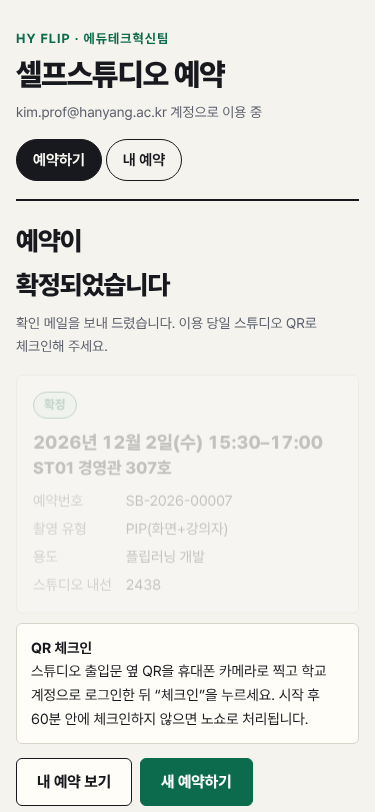
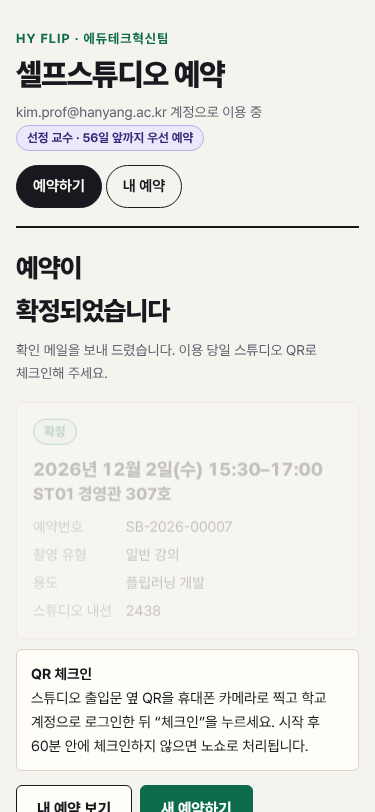
검토의견 결정 반영: 선정 교수 우선 예약·4주 제한·촬영 유형·이용수칙
- 예약 가능 기간: 일반 이용자 28일(4주), 선정교수 탭 이용자 56일(8주) 앞까지(예약 우선권)
- 촬영 유형 3종: 일반 강의 / 태블릿 판서 강의 / 기타
- 예약 화면 이용수칙 9개 항목으로 교체, 게시용 A4 이용 안내 샘플 추가
- 노쇼 제재 시 기존 예약 유지(현행) 문서에 확정 표기
- 우선권·촬영 유형 테스트 추가(총 38개), 화면 점검 재실행

Claude-Session: https://claude.ai/code/session_01V8sEvj3UEsq27Rsi7rzTA4

diff --git a/studio-booking/src/ui/AppJs.html b/studio-booking/src/ui/AppJs.html
@@ -19,6 +19,10 @@
       var s = $('#sanction'); s.hidden = false;
       s.textContent = '노쇼 누적으로 ' + d.sanctionUntil + '까지 새 예약이 제한됩니다. 사정이 있었다면 담당자(' + d.contact + ')에게 문의해 주세요.';
     }
+    if (d.isSelected && cfg().selectedAdvanceDays) {
+      var w = $('#who');
+      w.innerHTML = esc(d.email) + ' 계정으로 이용 중 <span class="pill sel">선정 교수 · ' + cfg().maxAdvanceDays + '일 앞까지 우선 예약</span>';
+    }
     renderStudios();
     var di = $('#date');
     di.min = today();
@@ -51,17 +55,22 @@
 
   function renderRules() {
     var c = cfg();
+    var adv = c.generalAdvanceDays ? '오늘부터 ' + c.generalAdvanceDays + '일(' + Math.round(c.generalAdvanceDays / 7) + '주) 앞까지 예약할 수 있습니다.' : '예약 가능 기간에 제한이 없습니다.';
+    if (c.selectedAdvanceDays && c.selectedAdvanceDays > (c.generalAdvanceDays || 0)) {
+      adv += ' 플립러닝 개발 선정 교수는 ' + c.selectedAdvanceDays + '일(' + Math.round(c.selectedAdvanceDays / 7) + '주) 앞까지 먼저 예약할 수 있습니다.';
+    }
     var items = [
-      '예약 시작 ' + c.checkinEarlyMin + '분 전부터 스튜디오에 붙은 QR 코드로 체크인합니다. 시작 후 ' + c.noShowGraceMin +
+      '[예약] ' + adv + ' 1인 1일 최대 ' + dur(c.dailyMaxMin) + ', 30분 단위로 예약합니다.',
+      '[체크인] 시작 ' + c.checkinEarlyMin + '분 전부터 스튜디오 출입문의 QR 코드로 체크인합니다. 시작 후 ' + c.noShowGraceMin +
         '분(짧은 예약은 종료 시각) 안에 체크인하지 않으면 노쇼로 처리됩니다.',
-      '취소·변경은 이용 전날 ' + fmtMin(c.deadlineMin) + '까지 직접 할 수 있습니다. 그 이후 취소나 미이용은 노쇼입니다.',
-      '학기 중 노쇼 ' + c.sanctionThreshold + '회부터 ' + c.sanctionDays + '일 동안 예약이 제한됩니다.',
-      '1인 1일 최대 ' + dur(c.dailyMaxMin) + '까지 예약할 수 있습니다.',
-      '장비 설정을 임의로 바꾸지 말고, 사용 후 전원을 끄고 처음 상태로 정리해 주세요.',
-      '음식물은 반입하지 않습니다.',
-      '장비 이상이나 파손을 발견하면 바로 담당자(' + S.d.contact + ')에게 알려 주세요.',
-      '야간 이용: 담당자 근무시간(평일 ' + fmtMin(c.supportStartMin) + '~' + fmtMin(c.supportEndMin) +
-        ') 외에 이용하는 동안 발생한 장비 도난·파손은 이용자 책임입니다.',
+      '[취소·변경] 이용 전날 ' + fmtMin(c.deadlineMin) + '까지 ‘내 예약’에서 직접 할 수 있습니다. 그 이후의 취소나 미이용은 노쇼입니다.',
+      '[노쇼 제재] 학기 중 노쇼 ' + c.sanctionThreshold + '회부터 ' + c.sanctionDays + '일 동안 새 예약이 제한됩니다. 이미 잡아 둔 예약은 유지됩니다.',
+      '[본인 이용] 예약한 본인(또는 함께 촬영하는 사람)만 이용하며, 예약을 다른 사람에게 넘기지 않습니다.',
+      '[장비] 카메라·조명·녹화기 설정을 임의로 바꾸거나 장비를 밖으로 가져가지 않습니다. 이상이나 파손을 발견하면 바로 담당자(' + S.d.contact + ')에게 알립니다.',
+      '[정리] 사용 후 장비 전원을 끄고 처음 상태로 정리합니다. 녹화 파일은 개인 저장장치로 옮기고 장비에 남은 파일은 지웁니다. 음식물은 반입하지 않습니다.',
+      '[야간·주말 이용] 담당자 근무시간(평일 ' + fmtMin(c.supportStartMin) + '~' + fmtMin(c.supportEndMin) +
+        ') 외에 이용하는 동안 발생한 장비 도난·파손은 이용자 책임입니다. 나갈 때 문이 잠겼는지 확인합니다.',
+      '[안전] 화재·누전 등 위험 상황에서는 촬영을 멈추고 즉시 대피한 뒤 담당자에게 알립니다.',
     ];
     $('#rulesList').innerHTML = items.map(function (t) { return '<li>' + esc(t) + '</li>'; }).join('');
   }

diff --git a/studio-booking/src/Rules.js b/studio-booking/src/Rules.js
@@ -31,7 +31,8 @@ var Rules = (function () {
     checkinEarlyMin: 10,        // 시작 10분 전부터 체크인
     sanctionThreshold: 2,       // 학기 노쇼 2회
     sanctionDays: 30,           // 1개월(30일) 예약 제한
-    maxAdvanceDays: null,       // 예약 가능 기간(일). null = 제한 없음
+    maxAdvanceDays: 28,         // 일반 이용자 예약 가능 기간(일). null = 제한 없음
+    selectedAdvanceDays: 56,    // 선정 교수 예약 가능 기간(일) — 예약 우선권
     personalYears: 2,           // 개인정보 보관
     historyYears: 10,           // 업무 이력 보관
   };
@@ -75,10 +76,17 @@ var Rules = (function () {
     return w !== 0 && w !== 6 && !isHoliday(date, holidays);
   }
 
+  /** 이용자에게 적용할 예약 가능 일수 (선정 교수는 더 먼 날짜까지 = 우선권). null = 제한 없음 */
+  function advanceDays(c, selected) {
+    c = c || DEFAULTS;
+    if (selected && c.selectedAdvanceDays) return Math.max(c.selectedAdvanceDays, c.maxAdvanceDays || 0);
+    return c.maxAdvanceDays || null;
+  }
+
   /**
    * 예약 요청 검증
    * @param req {studioId,date,startMin,endMin,support,agreedPrivacy,agreedRules}
-   * @param ctx {now:{date,min}, config, holidays[], busy[], sameDayBookings[], sanctionUntil}
+   * @param ctx {now:{date,min}, config, holidays[], busy[], sameDayBookings[], sanctionUntil, selected}
    *   busy: 해당 스튜디오·날짜의 점유 구간(캘린더 기준), sameDayBookings: 본인의 같은 날 점유 예약
    * @return {ok:boolean, errors:string[]}
    */
@@ -98,8 +106,10 @@ var Rules = (function () {
       e.push('운영시간(' + fmtMin(c.openMin) + '~' + fmtMin(c.closeMin) + ') 안에서만 예약할 수 있습니다.');
     }
     if (!before(ctx.now, req.date, s)) e.push('이미 지난 시간은 예약할 수 없습니다.');
-    if (c.maxAdvanceDays && req.date > addDays(ctx.now.date, c.maxAdvanceDays)) {
-      e.push('오늘부터 ' + c.maxAdvanceDays + '일 이내만 예약할 수 있습니다.');
+    var adv = advanceDays(c, ctx.selected);
+    if (adv && req.date > addDays(ctx.now.date, adv)) {
+      e.push('오늘부터 ' + adv + '일(' + Math.round(adv / 7) + '주) 이내만 예약할 수 있습니다.' +
+        (!ctx.selected && c.selectedAdvanceDays > adv ? ' (선정 교수는 ' + c.selectedAdvanceDays + '일까지)' : ''));
     }
     if (ctx.sanctionUntil && ctx.now.date <= ctx.sanctionUntil) {
       e.push('노쇼 누적으로 ' + ctx.sanctionUntil + '까지 예약이 제한됩니다. 담당자에게 문의해 주세요.');
@@ -253,7 +263,7 @@ var Rules = (function () {
     STATUS: STATUS, OCCUPYING: OCCUPYING, DEFAULTS: DEFAULTS,
     toMin: toMin, fmtMin: fmtMin, addDays: addDays, addYears: addYears, weekday: weekday,
     daysInMonth: daysInMonth, overlaps: overlaps, isHoliday: isHoliday, isWorkday: isWorkday,
-    validateRequest: validateRequest, canUserModify: canUserModify,
+    advanceDays: advanceDays, validateRequest: validateRequest, canUserModify: canUserModify,
     noShowDeadlineMin: noShowDeadlineMin, isNoShowDue: isNoShowDue, canCheckin: canCheckin,
     semesterOf: semesterOf, sanctionAfterNoShow: sanctionAfterNoShow,
     retentionDates: retentionDates, monthlyStats: monthlyStats,

diff --git a/studio-booking/test/flow.test.js b/studio-booking/test/flow.test.js
@@ -12,7 +12,7 @@ const kst = (s) => s + ':00+09:00';
 function form(o) {
   return Object.assign({
     studioId: 'ST01', date: '2026-12-02', startMin: 600, endMin: 660, support: false,
-    name: '김교수', org: '경영대학', shootType: 'PIP(화면+강의자)', purpose: '플립러닝 개발',
+    name: '김교수', org: '경영대학', shootType: '일반 강의', purpose: '플립러닝 개발',
     agreedPrivacy: true, agreedRules: true,
   }, o);
 }
@@ -129,6 +129,31 @@ test('촬영 지원 요청 → 임시 점유·담당자 알림 → 담당자가 
   assert.equal(evs.length, 1);
   assert.match(evs[0].title, /^\[확정\]/);
   assert.match(mailsTo(env, B).pop().subject, /촬영 지원 예약이 확정/);
+});
+
+test('선정 교수 예약 우선권: 일반 4주, 선정 교수 8주', () => {
+  const env = fresh();
+  env.ss().getSheetByName('선정교수').appendRow([A.toUpperCase(), '2027-1학기', '경영통계', '']); // 대소문자 무시
+  env.as(A);
+  const boot = env.call('apiBootstrap');
+  assert.equal(boot.isSelected, true);
+  assert.equal(boot.config.maxAdvanceDays, 56);
+  assert.equal(env.call('apiCreateBooking', form({ date: '2027-01-20' })).status, '확정'); // 51일 뒤
+  assert.throws(() => env.call('apiCreateBooking', form({ date: '2027-01-26' })), /56일/);
+  env.as(B);
+  assert.equal(env.call('apiBootstrap').config.maxAdvanceDays, 28);
+  assert.throws(() => env.call('apiCreateBooking', form({ date: '2027-01-20', startMin: 720, endMin: 780 })), /28일/);
+  assert.equal(env.call('apiCreateBooking', form({ date: '2026-12-28' })).status, '확정');
+  env.as(OWNER);
+  assert.equal(env.call('apiAdminData').upcoming.find((b) => b.email === A), undefined); // 14일 밖
+});
+
+test('촬영 유형은 설정된 3종만 허용', () => {
+  const env = fresh();
+  env.as(A);
+  assert.deepEqual(Array.from(env.call('apiBootstrap').shootTypes), ['일반 강의', '태블릿 판서 강의', '기타']);
+  assert.throws(() => env.call('apiCreateBooking', form({ shootType: 'PIP(화면+강의자)' })), /촬영 유형/);
+  assert.equal(env.call('apiCreateBooking', form({ shootType: '태블릿 판서 강의' })).status, '확정');
 });
 
 test('지원 요청 반려 → 일정 삭제·사유 메일, 사유 없으면 거부', () => {

diff --git a/studio-booking/src/Db.js b/studio-booking/src/Db.js
@@ -151,7 +151,8 @@ var CONFIG_KEYS = [
   ['체크인 허용(시작 전 분)', 'checkinEarlyMin', 'number', '10', '시작 몇 분 전부터 체크인 가능'],
   ['노쇼 제재 기준(학기 누적 회)', 'sanctionThreshold', 'number', '2', '이 횟수에 도달하면 예약 제한'],
   ['제재 기간(일)', 'sanctionDays', 'number', '30', '예약 제한 일수'],
-  ['최대 예약 가능 일수', 'maxAdvanceDays', 'number', '', '비워 두면 제한 없음. 예) 28 = 4주 앞까지'],
+  ['최대 예약 가능 일수', 'maxAdvanceDays', 'number', '28', '일반 이용자: 오늘부터 며칠 앞까지 예약 가능(28 = 4주). 비우면 제한 없음'],
+  ['선정 교수 예약 가능 일수', 'selectedAdvanceDays', 'number', '56', "예약 우선권: '선정교수' 탭에 있는 교수는 이 일수까지(56 = 8주)"],
 ];
 var CONFIG_TEXT = [
   ['학교 도메인', 'domain', 'hanyang.ac.kr', '이 도메인 계정만 이용 가능. 비워 두면 배포 설정(도메인 제한)만 사용'],
@@ -160,7 +161,7 @@ var CONFIG_TEXT = [
   ['담당자 알림 메일', 'staffEmail', '', '촬영 지원 요청이 오면 알림 받을 주소(쉼표로 여러 개)'],
   ['웹앱 주소', 'webUrl', '', '배포 후 /exec 로 끝나는 주소를 붙여 넣으세요(메일·QR 링크에 사용)'],
   ['전날 리마인더 메일(Y/N)', 'reminder', 'Y', '이용 전날 15시에 안내 메일 발송'],
-  ['촬영 유형', 'shootTypes', 'PIP(화면+강의자), 강의자 단독, 화면 녹화, 기타', '쉼표로 구분 — 현행 선택지로 바꿔 주세요'],
+  ['촬영 유형', 'shootTypes', '일반 강의, 태블릿 판서 강의, 기타', '쉼표로 구분'],
   ['용도', 'purposes', '플립러닝 개발, 일반 강의, 직무·기타', '쉼표로 구분'],
 ];
 
@@ -172,7 +173,7 @@ function loadConfig() {
   CONFIG_KEYS.forEach(function (d) {
     var v = map[d[0]];
     if (v === undefined) return;
-    if (v === '') { if (d[1] === 'maxAdvanceDays') c[d[1]] = null; return; }
+    if (v === '') { if (d[1] === 'maxAdvanceDays' || d[1] === 'selectedAdvanceDays') c[d[1]] = null; return; }
     if (d[2] === 'time') c[d[1]] = Rules.toMin(v);
     else if (d[2] === 'hours') c[d[1]] = Math.round(Number(v) * 60);
     else c[d[1]] = Number(v);

diff --git a/studio-booking/src/Booking.js b/studio-booking/src/Booking.js
@@ -23,6 +23,18 @@ function requireAdmin() {
   return email;
 }
 
+/** '선정교수' 탭 이메일 목록(소문자) → {email:true}. 예약 우선권과 담당자 화면 표시에 사용 */
+function selectedProfessors() {
+  var map = {};
+  Db.rows(SHEETS.SELECTED).forEach(function (r) {
+    var e = String(r['이메일'] || '').toLowerCase().trim();
+    if (e) map[e] = true;
+  });
+  return map;
+}
+
+function isSelectedProfessor(email) { return !!selectedProfessors()[email]; }
+
 /* ---------- 스튜디오 ---------- */
 
 function loadStudios(includeInactive) {
@@ -152,16 +164,19 @@ function apiBootstrap() {
   var now = nowKst();
   var mine = allBookings().filter(function (b) { return b.email === email; });
   var last = mine[mine.length - 1];
-  var horizon = Rules.addDays(now.date, cfg.maxAdvanceDays || 180);
+  var selected = isSelectedProfessor(email);
+  var adv = Rules.advanceDays(cfg, selected);
+  var horizon = Rules.addDays(now.date, adv || 180);
   return {
     email: email,
     name: last ? last.name : '',
     org: last ? last.org : '',
     isAdmin: isAdmin(email),
+    isSelected: selected,
     studios: loadStudios(false).map(publicStudio),
     config: {
       openMin: cfg.openMin, closeMin: cfg.closeMin, slotMin: cfg.slotMin, dailyMaxMin: cfg.dailyMaxMin,
-      supportStartMin: cfg.supportStartMin, supportEndMin: cfg.supportEndMin, maxAdvanceDays: cfg.maxAdvanceDays,
+      supportStartMin: cfg.supportStartMin, supportEndMin: cfg.supportEndMin, maxAdvanceDays: adv, generalAdvanceDays: cfg.maxAdvanceDays, selectedAdvanceDays: cfg.selectedAdvanceDays,
       deadlineMin: cfg.deadlineMin, noShowGraceMin: cfg.noShowGraceMin, checkinEarlyMin: cfg.checkinEarlyMin,
       sanctionThreshold: cfg.sanctionThreshold, sanctionDays: cfg.sanctionDays,
     },
@@ -230,6 +245,7 @@ function apiCreateBooking(form) {
         return b.email === email && b.date === req.date && isOccupying(b) && (!old || b.id !== old.id);
       }),
       sanctionUntil: activeSanctionUntil(email, now.date),
+      selected: isSelectedProfessor(email),
     });
     if (!check.ok) throw new Error(check.errors.join('\n'));
 

diff --git a/studio-booking/test/rules.test.js b/studio-booking/test/rules.test.js
@@ -85,7 +85,20 @@ test('최대 예약 가능 일수(설정 시에만)', () => {
   const cfg = Object.assign({}, C, { maxAdvanceDays: 7 });
   assert.equal(errs(req({ date: '2026-12-07' }), ctx({ config: cfg })).length, 0);
   assert.ok(errs(req({ date: '2026-12-08' }), ctx({ config: cfg })).length);
-  assert.equal(errs(req({ date: '2027-06-30' }), ctx()).length, 0); // 기본값: 제한 없음
+  const none = Object.assign({}, C, { maxAdvanceDays: null, selectedAdvanceDays: null });
+  assert.equal(errs(req({ date: '2027-06-30' }), ctx({ config: none })).length, 0); // 비우면 제한 없음
+});
+
+test('예약 가능 기간: 일반 28일(4주), 선정 교수 56일(8주) 우선권', () => {
+  // 오늘 2026-11-30 → 일반 2026-12-28까지, 선정 2027-01-25까지
+  assert.equal(errs(req({ date: '2026-12-28' }), ctx()).length, 0);
+  const e = errs(req({ date: '2026-12-29' }), ctx());
+  assert.ok(e.length && /28일/.test(e[0]) && /선정 교수는 56일/.test(e[0]), e.join());
+  assert.equal(errs(req({ date: '2026-12-29' }), ctx({ selected: true })).length, 0);
+  assert.equal(errs(req({ date: '2027-01-25' }), ctx({ selected: true })).length, 0);
+  assert.ok(errs(req({ date: '2027-01-26' }), ctx({ selected: true })).length);
+  assert.equal(R.advanceDays(C, false), 28);
+  assert.equal(R.advanceDays(C, true), 56);
 });
 
 test('본인 취소·수정은 이용 전날 18:00까지', () => {

diff --git a/studio-booking/preview/server.js b/studio-booking/preview/server.js
@@ -15,7 +15,7 @@ function seed(env) {
   env.call('setup');
   env.setConfig('담당자 알림 메일', 'staff@hanyang.ac.kr');
   const f = (o) => Object.assign({ studioId: 'ST01', date: '2026-12-02', startMin: 600, endMin: 660, support: false,
-    name: '박교수', org: '자연과학대학', shootType: 'PIP(화면+강의자)', purpose: '플립러닝 개발', agreedPrivacy: true, agreedRules: true }, o);
+    name: '박교수', org: '자연과학대학', shootType: '일반 강의', purpose: '플립러닝 개발', agreedPrivacy: true, agreedRules: true }, o);
   env.as('prof.park@hanyang.ac.kr');
   env.call('apiCreateBooking', f({ startMin: 600, endMin: 720 }));
   env.call('apiCreateBooking', f({ studioId: 'ST09', date: '2026-12-01', startMin: 840, endMin: 960, support: true }));

diff --git a/studio-booking/src/Admin.js b/studio-booking/src/Admin.js
@@ -18,8 +18,7 @@ function apiAdminData() {
   var studios = {};
   var studioList = loadStudios(true);
   studioList.forEach(function (s) { studios[s.code] = s; });
-  var selected = {};
-  Db.rows(SHEETS.SELECTED).forEach(function (r) { if (r['이메일']) selected[String(r['이메일']).toLowerCase().trim()] = true; });
+  var selected = selectedProfessors();
 
   var all = allBookings();
   var sem = Rules.semesterOf(now.date, loadSemesters());

diff --git a/studio-booking/docs/이용수칙_샘플.md b/studio-booking/docs/이용수칙_샘플.md
@@ -1,0 +1,70 @@
+# 셀프스튜디오 이용수칙 (샘플 · 담당 부서 확정 전 초안)
+
+두 가지 버전을 준비했습니다.
+- **A. 예약 화면 동의용**: 예약할 때 "[필수] 이용 수칙과 야간 이용 책임에 동의합니다" 아래에 펼쳐 보이는 문구입니다. 이미 웹앱에 들어가 있습니다.
+- **B. 스튜디오 출입문 게시용**: A4 한 장으로 인쇄해 QR 옆에 붙이는 전문입니다.
+
+{중괄호} 값은 관리 시트 '설정' 탭 값입니다. 웹앱 화면에는 설정값이 자동으로 들어갑니다.
+
+---
+
+## A. 예약 화면 동의용 (9개 항목)
+
+1. **[예약]** 오늘부터 28일(4주) 앞까지 예약할 수 있습니다. 플립러닝 개발 선정 교수는 56일(8주) 앞까지 먼저 예약할 수 있습니다. 1인 1일 최대 8시간, 30분 단위로 예약합니다.
+2. **[체크인]** 시작 10분 전부터 스튜디오 출입문의 QR 코드로 체크인합니다. 시작 후 60분(짧은 예약은 종료 시각) 안에 체크인하지 않으면 노쇼로 처리됩니다.
+3. **[취소·변경]** 이용 전날 18:00까지 '내 예약'에서 직접 할 수 있습니다. 그 이후의 취소나 미이용은 노쇼입니다.
+4. **[노쇼 제재]** 학기 중 노쇼 2회부터 30일 동안 새 예약이 제한됩니다. 이미 잡아 둔 예약은 유지됩니다.
+5. **[본인 이용]** 예약한 본인(또는 함께 촬영하는 사람)만 이용하며, 예약을 다른 사람에게 넘기지 않습니다.
+6. **[장비]** 카메라·조명·녹화기 설정을 임의로 바꾸거나 장비를 밖으로 가져가지 않습니다. 이상이나 파손을 발견하면 바로 담당자에게 알립니다.
+7. **[정리]** 사용 후 장비 전원을 끄고 처음 상태로 정리합니다. 녹화 파일은 개인 저장장치로 옮기고 장비에 남은 파일은 지웁니다. 음식물은 반입하지 않습니다.
+8. **[야간·주말 이용]** 담당자 근무시간(평일 08:30~17:30) 외에 이용하는 동안 발생한 장비 도난·파손은 이용자 책임입니다. 나갈 때 문이 잠겼는지 확인합니다.
+9. **[안전]** 화재·누전 등 위험 상황에서는 촬영을 멈추고 즉시 대피한 뒤 담당자에게 알립니다.
+
+---
+
+## B. 스튜디오 출입문 게시용 (A4 1장)
+
+> # HY FLIP 셀프스튜디오 이용 안내
+> **{스튜디오 코드} · {위치}** — 예약한 분만 이용할 수 있습니다.
+>
+> ### 1. 예약과 체크인
+> - 예약은 웹에서만 받습니다(전화 예약 없음). 오늘부터 **4주 앞**까지, 플립러닝 개발 선정 교수는 **8주 앞**까지 예약할 수 있습니다.
+> - 들어오면 이 옆의 **QR 코드를 휴대폰으로 찍고**, 학교 계정으로 로그인한 뒤 **"체크인"**을 누릅니다.
+> - 시작 10분 전부터 체크인할 수 있습니다. **시작 후 60분 안에 체크인하지 않으면 노쇼**로 처리됩니다.
+>
+> ### 2. 취소와 노쇼
+> - 취소·변경은 **이용 전날 18:00까지** 웹 '내 예약'에서 직접 합니다.
+> - 그 이후의 취소나 미이용은 노쇼입니다. **학기 중 노쇼 2회면 30일 동안 새 예약이 제한**됩니다.
+> - 부득이한 사정이 있으면 미리 담당자에게 연락해 주세요. 확인 후 노쇼를 해제해 드립니다.
+>
+> ### 3. 장비 사용
+> - 카메라·조명·녹화기·마이크 설정을 임의로 바꾸지 않습니다. 촬영 위치 표시(바닥 테이프)를 지켜 주세요.
+> - 장비와 비품은 밖으로 가져가지 않습니다.
+> - 이상·고장·파손을 발견하면 **사용 전이라도 바로** 담당자에게 알려 주세요. 알리지 않으면 다음 이용자가 피해를 봅니다.
+>
+> ### 4. 나갈 때 정리
+> - [ ] 녹화 파일을 개인 저장장치로 옮기고, 장비에 남은 파일 삭제
+> - [ ] 카메라·조명·녹화기·모니터 전원 끄기
+> - [ ] 의자·책상·소품 처음 위치로
+> - [ ] 쓰레기 가져가기 (음식물 반입 금지)
+> - [ ] 냉난방기·공기청정기·조명 끄고 **문 잠금 확인**
+>
+> ### 5. 야간·주말 이용 책임
+> 담당자 근무시간(**평일 08:30~17:30**) 외에 이용하는 동안 발생한 **장비 도난·파손은 이용자 책임**입니다. 예약할 때 이 내용에 동의하셨습니다.
+>
+> ### 6. 안전
+> 화재·누전·누수 등 위험 상황에서는 촬영을 멈추고 즉시 대피한 뒤 담당자에게 알립니다.
+>
+> ### 7. 개인정보
+> 예약·체크인 기록(성명·소속·이메일)은 예약 관리와 이용 통계에만 쓰고, 학기 종료 후 2년이 지나면 파기합니다.
+>
+> ---
+> **문의** 교육혁신처 에듀테크혁신팀 HY FLIP 담당 · 02-2220-1406 · 이 스튜디오 내선 {내선}
+> 촬영 지원(카메라 세팅·촬영 보조)은 예약할 때 "촬영 지원 필요"를 체크하세요. 평일 근무시간에만 가능합니다.
+
+---
+
+### 확정 전에 확인할 점
+- 스튜디오별 장비가 달라(ST04·ST07·ST09는 AREC 녹화기) **파일 정리 방법**을 장비별로 한 줄 덧붙이면 좋습니다.
+- 바닥 촬영 위치 표시(테이프)가 없는 스튜디오는 3항 둘째 줄을 빼세요.
+- 공과대학 ST10(정상진 S/W 스페이스)처럼 다른 용도와 함께 쓰는 공간은 출입·잠금 방식을 확인해 5항을 조정하세요.

diff --git a/studio-booking/docs/기능정의서_검토의견.md b/studio-booking/docs/기능정의서_검토의견.md
@@ -5,19 +5,21 @@
 
 ## A. 결정이 필요한 사항 (구현은 기본값으로 진행)
 
+2026-11-25 조피디님 결정으로 1·2·5·10번을 확정해 코드에 반영했습니다. 11번은 샘플을 작성했습니다.
+
 | # | 내용 | 정의서 근거 | 구현한 기본값 | 제안 |
 | --- | --- | --- | --- | --- |
-| 1 | **선정 교수 우선권이 서로 모순됨** | 4장 “선정 시 스튜디오 예약 우선권이 열림” ↔ 5-1 “별도 우선예약 기간 없음” | 우선권 없음. 선정 교수는 담당자 화면에 ‘선정 교수’로 표시만 | 4장 문구를 “예약 페이지 안내”로 고치거나, 우선권을 원하면 ‘선정 교수만 N일 먼저 예약’ 방식 결정 |
-| 2 | **예약 가능 기간 무제한** | 5-1 | 제한 없음 (설정 ‘최대 예약 가능 일수’ 빈칸) | 공문 일정상 12/15~2/19에 촬영이 몰림(1차 점검 50%: 1/15). 한 사람이 겨울방학을 미리 선점하지 않도록 **4주(28일)** 제한 검토 |
+| 1 | ~~선정 교수 우선권 모순~~ **결정됨(11/25)** | 4장 ↔ 5-1 | **선정 교수는 56일(8주) 앞까지, 일반은 28일(4주) 앞까지 예약** — 남의 예약을 밀어내지 않는 “먼저 예약” 방식 | 정의서 5-1 ‘예약 가능 기간’을 “일반 4주 / 선정 교수 8주(우선권)”로 수정 |
+| 2 | ~~예약 가능 기간 무제한~~ **결정됨(11/25)** | 5-1 | **4주(28일) 제한** (설정 ‘최대 예약 가능 일수’) | 정의서 5-1 문구 수정 |
 | 3 | 30분 예약의 노쇼 기준 | 5-1 “시작 1시간 안 체크인” | 시작+60분과 종료 시각 중 **빠른 쪽** | 그대로 확정 권장 |
 | 4 | “마감 후 취소 = 노쇼”의 처리 주체 | 5-1, 5-3 | 마감 후 본인 취소 버튼 숨김 → 담당자가 **취소(노쇼)/취소(예외)** 선택 | 그대로 확정 권장 |
-| 5 | 제재 “1개월”의 기준일·기존 예약 처리 | 5-1 | 노쇼 판정일부터 30일, **이미 잡힌 예약은 유지** | 기존 예약도 취소할지 결정 |
+| 5 | 제재 “1개월”의 기준일·기존 예약 처리 **결정됨(11/25)** | 5-1 | 노쇼 판정일부터 30일, **이미 잡힌 예약은 유지** | 정의서 5-1에 명시 |
 | 6 | “학기 단위” 경계 | 5-1 | ‘학기’ 탭(방학은 직전 학기에 포함) | 학사일정 기준으로 탭 값 확인 |
 | 7 | **고정 QR은 사진으로 원격 체크인 가능** | 5-1, 5-4 | 예약 시간 창(시작 10분 전~판정 시각) + 본인 계정 + 스튜디오별 비밀키 확인. 유출 시 `rotateQrKeys`로 재발급 | 부정 체크인이 생기면 2단계로 스튜디오 태블릿에 바뀌는 QR 검토 |
 | 8 | 미처리 촬영 지원 요청 | 5-3 | 시작 시각까지 미확정이면 **자동 취소 + 메일** | 확정 권장 |
 | 9 | 촬영 지원 ‘평일’의 공휴일 | 5-1 | 구글 대한민국 공휴일 캘린더 + ‘공휴일’ 탭 제외 | 개교기념일 등 학교 휴무일 탭에 추가 |
-| 10 | 촬영 유형 “PIP 등 현행 선택지” | 5-2 | 임시: PIP(화면+강의자), 강의자 단독, 화면 녹화, 기타 | **현행 선택지 목록 필요** → 설정 탭에 입력 |
-| 11 | 이용 수칙 문구 | 5-2 | 초안 8개 항목(체크인·마감·노쇼·장비·음식물·파손·야간 책임) | 담당 부서 문구 확정 |
+| 10 | 촬영 유형 **결정됨(11/25)** | 5-2 | **일반 강의 / 태블릿 판서 강의 / 기타** 3종 | 정의서 5-2 “PIP 등 현행 선택지”를 3종으로 수정 |
+| 11 | 이용 수칙 문구 | 5-2 | 화면용 9개 항목 반영, 게시용 A4 전문은 [이용수칙_샘플.md](이용수칙_샘플.md) | 담당 부서 확정 |
 
 ## B. 정의서 문구 수정 제안
 

diff --git a/studio-booking/docs/운영매뉴얼.md b/studio-booking/docs/운영매뉴얼.md
@@ -31,7 +31,7 @@
 | 예약 | 예약 1건 = 1행 | **아니요** — 반드시 담당자 화면에서 처리 |
 | 노쇼제재 | 제재 기록 | 해제는 담당자 화면에서 |
 | 관리자 | 담당자 화면 권한 | 예 |
-| 선정교수 | 이메일을 넣으면 담당자 화면에 ‘선정 교수’ 표시 (모듈 A 완성 후 자동 연동 예정) | 예 |
+| 선정교수 | **예약 우선권 근거.** 여기 있는 이메일은 8주 앞까지 예약 가능 + 담당자 화면에 ‘선정 교수’ 표시. 선정 결과 발표(12/15) 직후 입력 (모듈 A 완성 후 자동 연동 예정) | 예 |
 | 공휴일 | 촬영 지원 불가일. 학교 휴무일 추가 | 예 |
 | 학기 | 노쇼 누적·보관기간 기준 | 예 |
 | 설정 | 운영시간·한도·마감·메일 문구 관련 값 | 예 (바로 반영) |
@@ -59,5 +59,7 @@
 | 본인 취소·수정 마감(이용 전날) | 18:00 | |
 | 촬영 지원 시작 / 종료 | 08:30 / 17:30 | 평일·공휴일 제외 |
 | 체크인 유예(분) | 60 | |
-| 노쇼 제재 기준 / 제재 기간 | 2회 / 30일 | 학기 단위 |
-| 최대 예약 가능 일수 | (빈칸 = 제한 없음) | 예: 28 → 4주 앞까지만 |
+| 노쇼 제재 기준 / 제재 기간 | 2회 / 30일 | 학기 단위, 이미 잡힌 예약은 유지 |
+| 최대 예약 가능 일수 | 28 | 일반 이용자 4주 앞까지. 비우면 제한 없음 |
+| 선정 교수 예약 가능 일수 | 56 | 선정교수 탭 이용자 8주 앞까지(우선권) |
+| 촬영 유형 | 일반 강의, 태블릿 판서 강의, 기타 | 쉼표로 구분 |

diff --git a/studio-booking/docs/배포가이드.md b/studio-booking/docs/배포가이드.md
@@ -67,15 +67,15 @@ Apps Script 편집기가 브라우저에서 열립니다.
 | --- | --- |
 | 설정 | **웹앱 주소**에 3단계 URL을 붙여 넣기 (메일·QR 링크용, 필수) |
 | 설정 | **담당자 알림 메일**에 촬영 지원 요청을 받을 주소 입력 |
-| 설정 | **촬영 유형**을 현행 선택지로 수정 (쉼표로 구분) |
 | 관리자 | 담당자 화면을 쓸 직원 이메일 추가 (부서 계정은 자동 등록됨) |
+| 선정교수 | 선정 결과 발표 후 선정 교수 이메일 입력 → 8주 앞까지 우선 예약 |
 | 학기 | 학사일정에 맞게 시작일·종료일 확인 (방학은 직전 학기에 포함) |
 | 공휴일 | 개교기념일 등 학교 휴무일 추가 (법정 공휴일은 구글 공휴일 캘린더로 자동 반영) |
 
 ## 5. QR 인쇄·부착
 
 1. 웹 앱 URL 끝에 `?p=admin`을 붙여 엽니다 → **QR 인쇄** 탭 → **인쇄하기**.
-2. 각 스튜디오 출입문 옆에 붙입니다.
+2. 각 스튜디오 출입문 옆에 붙입니다. 옆에 게시할 이용 안내문은 [이용수칙_샘플.md](이용수칙_샘플.md)의 B안을 쓰세요.
 
 ## 6. 시범 운영 점검표
 
